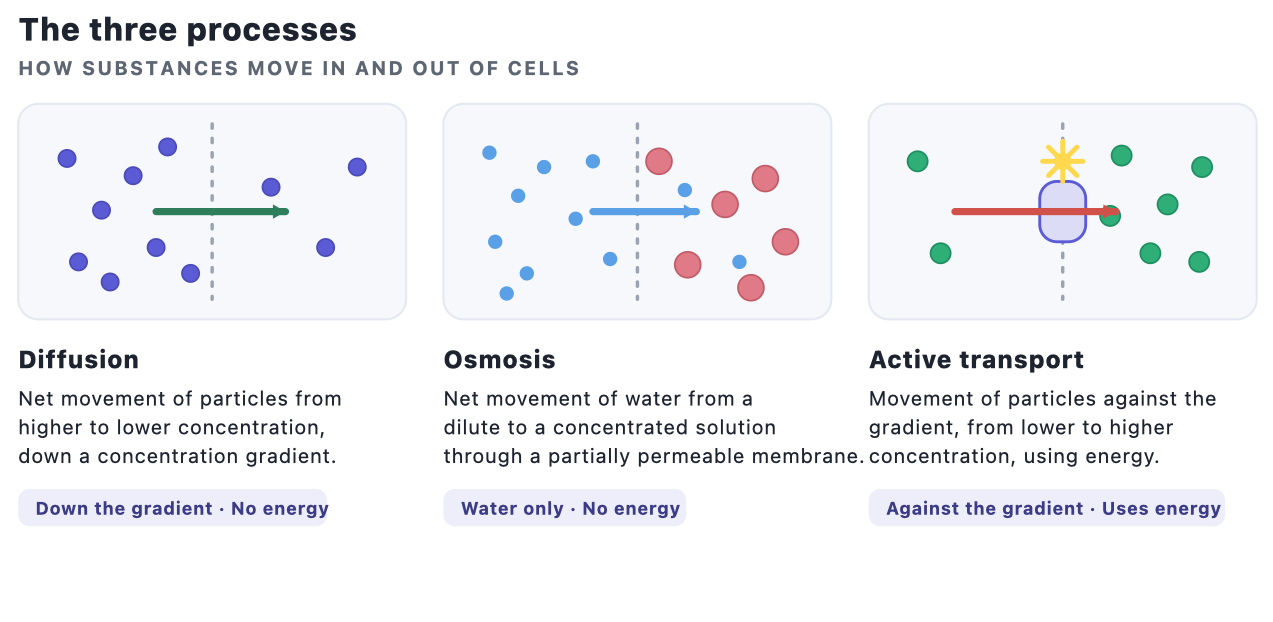
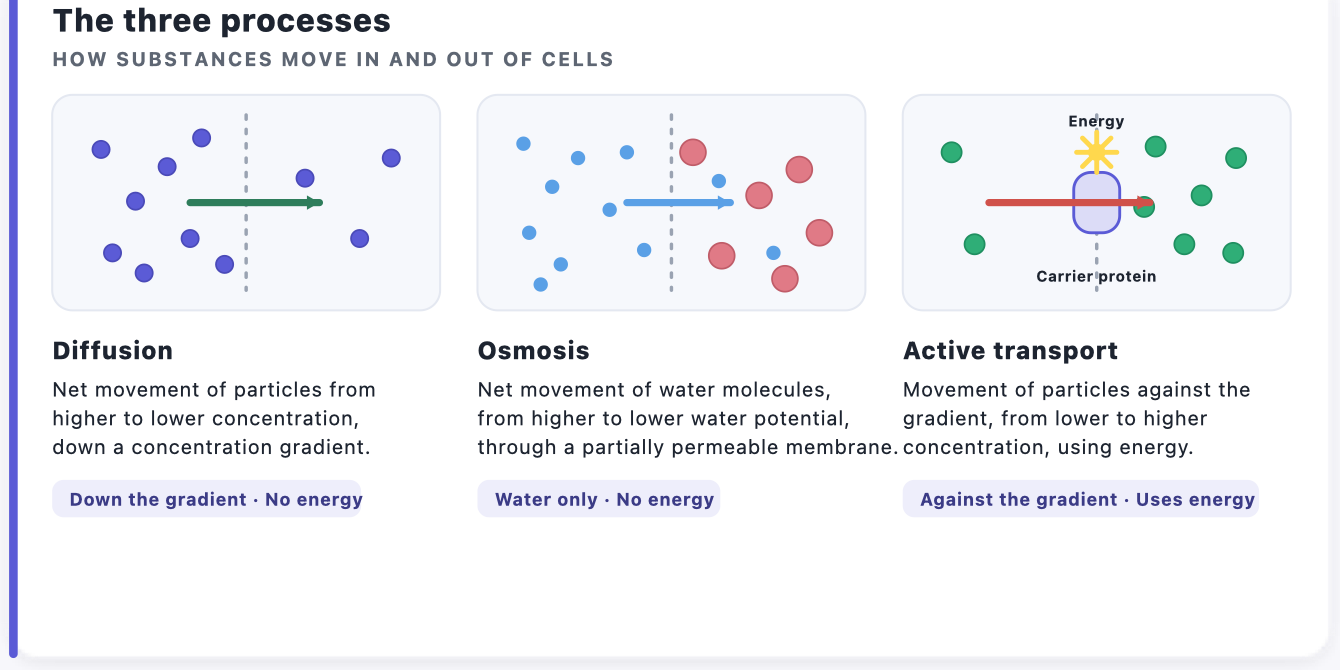
Movement three-processes diagram: fix osmosis definition + label active transport
- Osmosis caption now uses the water-potential definition (higher -> lower).
- Label the active-transport diagram: "Energy" on the burst, "Carrier protein"
  on the membrane protein, so the symbols aren't ambiguous.
- Regenerate the SVG and re-crop the notes diagram.

diff --git a/tools/gen_movement_summary.py b/tools/gen_movement_summary.py
@@ -53,6 +53,9 @@ def p_active(w=270,h=150):
     cx,cy=w/2,40
     star="".join(f'<line x1="{cx}" y1="{cy}" x2="{cx+14*math.cos(math.radians(a))}" y2="{cy+14*math.sin(math.radians(a))}" stroke="{YEL}" stroke-width="3.4" stroke-linecap="round"/>' for a in range(0,360,45))
     s+=f'<circle cx="{cx}" cy="{cy}" r="6" fill="{YEL}"/>'+star
+    # labels so the energy burst and the carrier protein are clear
+    s+=f'<text x="{w/2}" y="22" text-anchor="middle" font-size="10.5" font-weight="700" fill="#1d2430">Energy</text>'
+    s+=f'<text x="{w/2}" y="130" text-anchor="middle" font-size="10.5" font-weight="700" fill="#1d2430">Carrier protein</text>'
     return s
 
 def defn(x,y,name,lines,tag):
@@ -126,7 +129,7 @@ svg=f'''<svg viewBox="0 0 1000 1392" xmlns="http://www.w3.org/2000/svg" font-fam
 <g transform="translate(366,224)">{p_osmosis()}</g>
 <g transform="translate(662,224)">{p_active()}</g>
 {defn(70,408,"Diffusion",["Net movement of particles from","higher to lower concentration,","down a concentration gradient."],"Down the gradient · No energy")}
-{defn(366,408,"Osmosis",["Net movement of water from a","dilute to a concentrated solution","through a partially permeable membrane."],"Water only · No energy")}
+{defn(366,408,"Osmosis",["Net movement of water molecules,","from higher to lower water potential,","through a partially permeable membrane."],"Water only · No energy")}
 {defn(662,408,"Active transport",["Movement of particles against the","gradient, from lower to higher","concentration, using energy."],"Against the gradient · Uses energy")}
 
 <!-- Card B: osmosis in living cells -->
